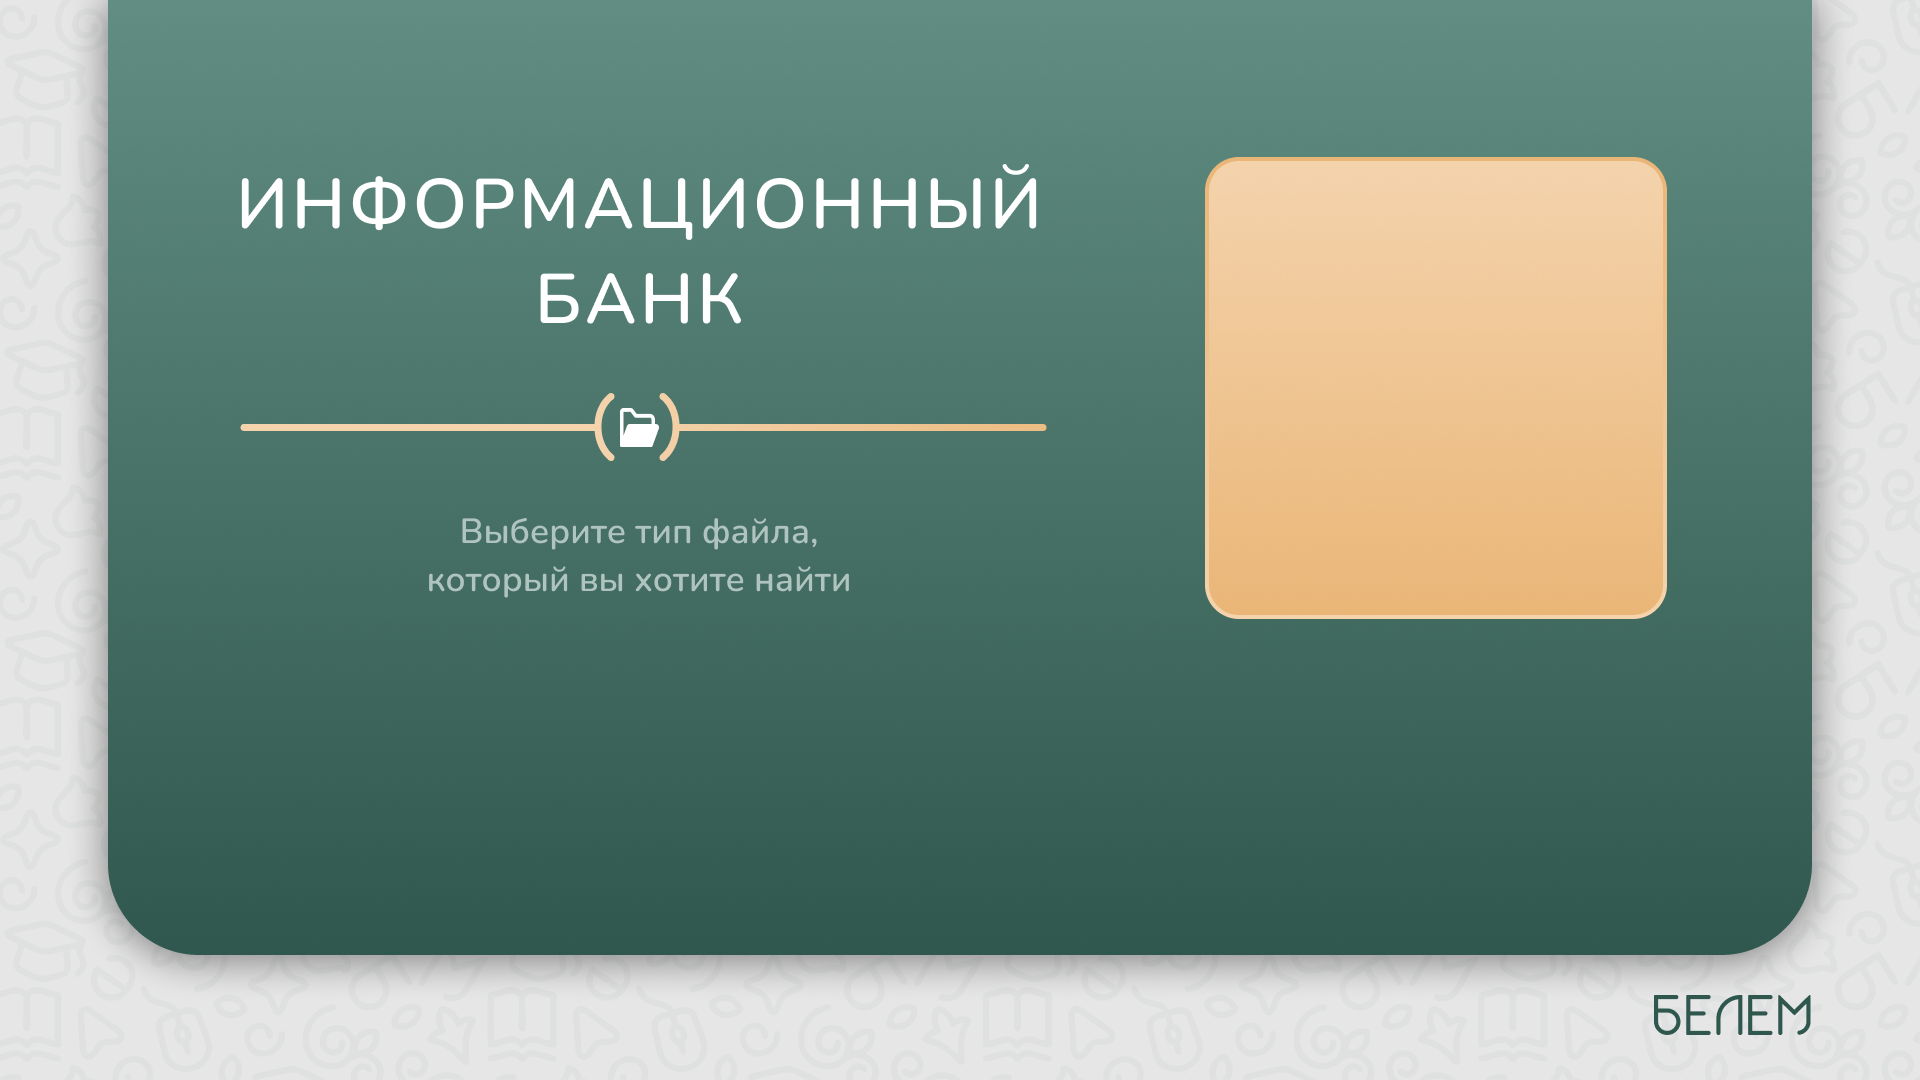
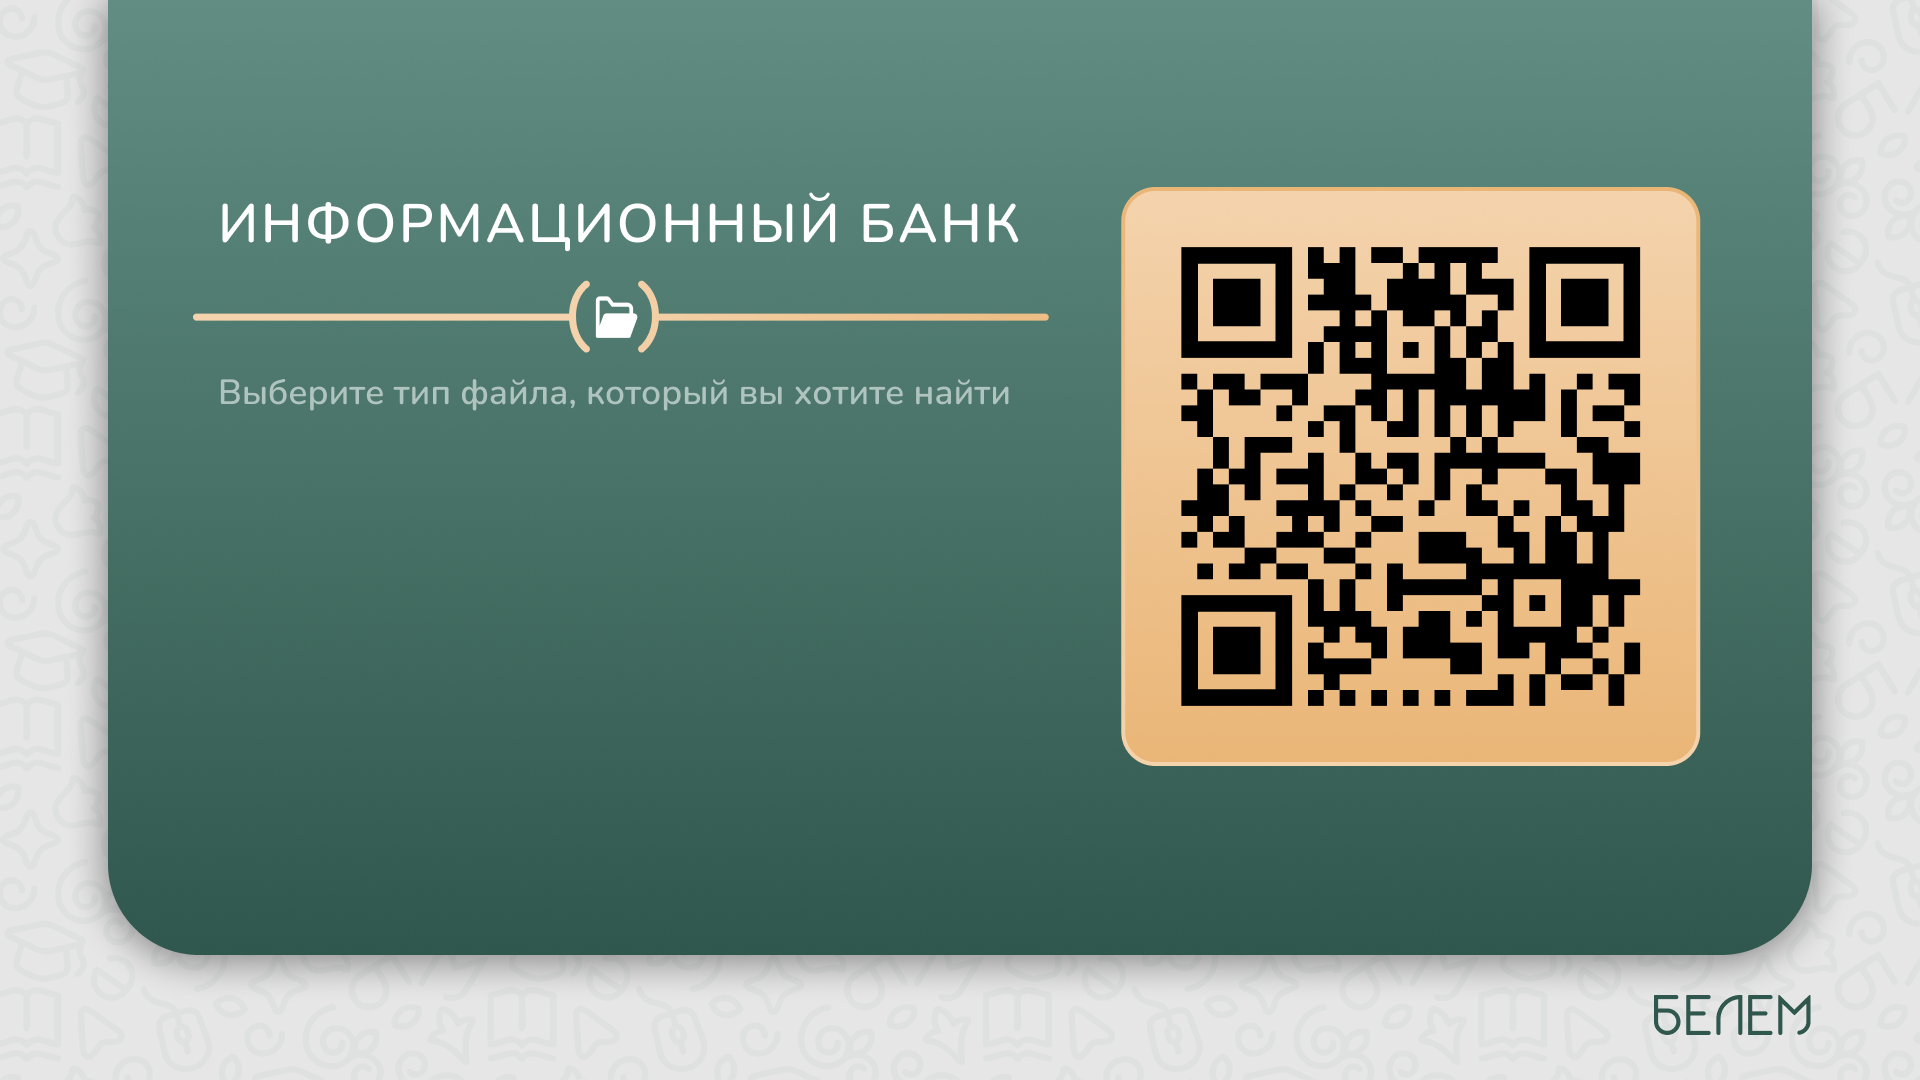
relize

Changed region(s): [[0.0938, 0.1222, 0.9062, 0.7333], [0.2188, 0.4889, 0.4375, 0.55]]

diff --git a/belem new/src/components/Greeting.jsx b/belem new/src/components/Greeting.jsx
@@ -4,8 +4,8 @@ export const Greeting = () => {
     const navigate = useNavigate();
     return (
         <main className="relative h-screen w-screen bg-[url('/greetingBackFon.png')] bg-cover bg-center bg-fixed">
-            <div className="absolute bottom-42 left-0 w-full flex justify-center gap-50">
-                <button className="bg-transparent p-0 inline-flex items-center justify-center" onClick={() => navigate('/documents')}>
+            <div className="absolute bottom-95 left-90 flex flex-col justify-center gap-6 scale-[1.63]" >
+                <button className="bg-transparent p-0 inline-flex items-center justify-center mb-10" onClick={() => navigate('/documents')}>
                     <img src="/btn_document.png" alt="Документ" className="h-20" />
                 </button>
                 <button className="bg-transparent p-0 inline-flex items-center justify-center" onClick={() => navigate('/materials')}>
